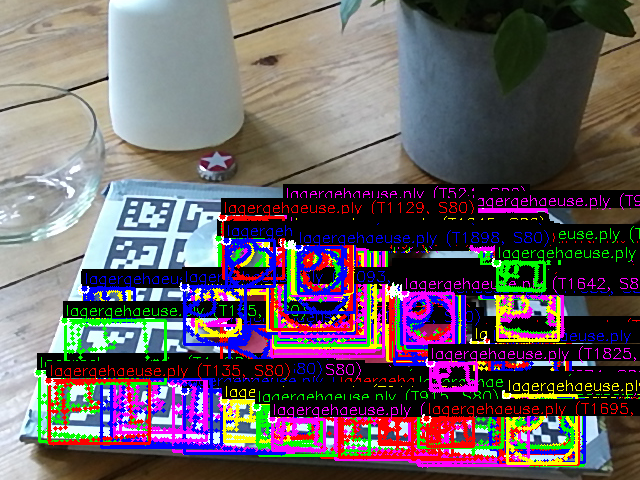
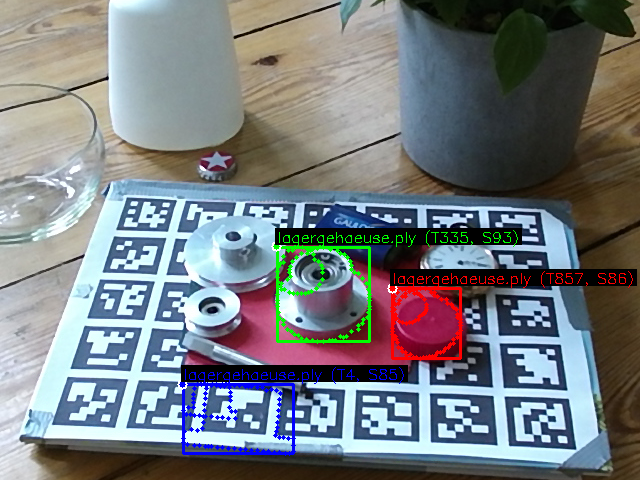
add nms filter

diff --git a/opencv_detector.cpp b/opencv_detector.cpp
@@ -1,3 +1,4 @@
+#include <algorithm>
 #include <fstream>
 #include <iostream>
 #include <opencv2/opencv.hpp>
@@ -15,6 +16,63 @@ struct DetectionResult {
   cv::Point position;
   cv::Rect boundingBox;
 };
+
+// 计算IoU
+float calculateIoU(const cv::Rect& a, const cv::Rect& b) {
+  int interX1 = std::max(a.x, b.x);
+  int interY1 = std::max(a.y, b.y);
+  int interX2 = std::min(a.x + a.width, b.x + b.width);
+  int interY2 = std::min(a.y + a.height, b.y + b.height);
+
+  if (interX2 < interX1 || interY2 < interY1) {
+    return 0.0f;
+  }
+
+  float interArea = (interX2 - interX1) * (interY2 - interY1);
+  float unionArea = a.area() + b.area() - interArea;
+
+  return interArea / unionArea;
+}
+
+// NMS过滤
+std::vector<DetectionResult> nmsFilter(std::vector<DetectionResult>& results,
+                                        float iouThreshold = 0.3f,
+                                        int maxResults = 10) {
+  if (results.empty()) {
+    return results;
+  }
+
+  // 按相似度降序排序
+  std::sort(results.begin(), results.end(),
+            [](const DetectionResult& a, const DetectionResult& b) {
+              return a.similarity > b.similarity;
+            });
+
+  std::vector<DetectionResult> filtered;
+  std::vector<bool> suppressed(results.size(), false);
+
+  for (size_t i = 0; i < results.size() && filtered.size() < (size_t)maxResults; i++) {
+    if (suppressed[i]) {
+      continue;
+    }
+
+    filtered.push_back(results[i]);
+
+    // 抑制与当前结果重叠度高的结果
+    for (size_t j = i + 1; j < results.size(); j++) {
+      if (suppressed[j]) {
+        continue;
+      }
+
+      float iou = calculateIoU(results[i].boundingBox, results[j].boundingBox);
+      if (iou > iouThreshold) {
+        suppressed[j] = true;
+      }
+    }
+  }
+
+  return filtered;
+}
 
 cv::Ptr<cv::linemod::Detector> loadDetector(const std::string& filename) {
   cv::Ptr<cv::linemod::Detector> detector =
@@ -199,6 +257,11 @@ void printUsage(const char* programName) {
   std::cout << "Options:" << std::endl;
   std::cout << "  -t <threshold>   Detection threshold (default: 80.0)"
             << std::endl;
+  std::cout << "  -i <iou>         IoU threshold for NMS (default: 0.3)"
+            << std::endl;
+  std::cout << "  -n <max>         Max number of results (default: 10)"
+            << std::endl;
+  std::cout << "  --no-nms         Disable NMS filtering" << std::endl;
   std::cout << "  -d               Use depth modality (default: true)"
             << std::endl;
   std::cout << "  -c               Color modality only (ignore depth)"
@@ -211,7 +274,7 @@ void printUsage(const char* programName) {
       << " linemod_templates.yml.gz benchmark/img0.png benchmark/depth0.png"
       << std::endl;
   std::cout << "  " << programName
-            << " -t 70 -c linemod_templates.yml benchmark/img0.png"
+            << " -t 70 -i 0.5 -n 5 linemod_templates.yml benchmark/img0.png"
             << std::endl;
 }
 
@@ -222,6 +285,9 @@ int main(int argc, char** argv) {
   std::string colorFile;
   std::string depthFile;
   float threshold = 80.0f;
+  float iouThreshold = 0.1f;
+  int maxResults = 1;
+  bool useNms = true;
   bool useDepth = true;
 
   int argIdx = 1;
@@ -234,6 +300,19 @@ int main(int argc, char** argv) {
       if (argIdx + 1 < argc) {
         threshold = std::stof(argv[++argIdx]);
       }
+      argIdx++;
+    } else if (arg == "-i") {
+      if (argIdx + 1 < argc) {
+        iouThreshold = std::stof(argv[++argIdx]);
+      }
+      argIdx++;
+    } else if (arg == "-n") {
+      if (argIdx + 1 < argc) {
+        maxResults = std::stoi(argv[++argIdx]);
+      }
+      argIdx++;
+    } else if (arg == "--no-nms") {
+      useNms = false;
       argIdx++;
     } else if (arg == "-c") {
       useDepth = false;
@@ -272,7 +351,11 @@ int main(int argc, char** argv) {
   }
   std::cout << "Threshold: " << threshold << std::endl;
   std::cout << "Use depth: " << (useDepth ? "yes" : "no") << std::endl;
-  std::cout << std::endl;
+  std::cout << "NMS: " << (useNms ? "enabled" : "disabled");
+  if (useNms) {
+    std::cout << " (IoU=" << iouThreshold << ", max=" << maxResults << ")";
+  }
+  std::cout << std::endl << std::endl;
 
   std::cout << "Loading detector..." << std::endl;
   cv::Ptr<cv::linemod::Detector> detector = loadDetector(templateFile);
@@ -314,6 +397,14 @@ int main(int argc, char** argv) {
 
   tm.stop();
   std::cout << "Detection time: " << tm.getTimeMilli() << " ms" << std::endl;
+
+  // 应用 NMS
+  if (useNms && !results.empty()) {
+    size_t beforeNms = results.size();
+    results = nmsFilter(results, iouThreshold, maxResults);
+    std::cout << "NMS: " << beforeNms << " -> " << results.size() << " results" << std::endl;
+  }
+
   std::cout << std::endl;
 
   if (!results.empty()) {
